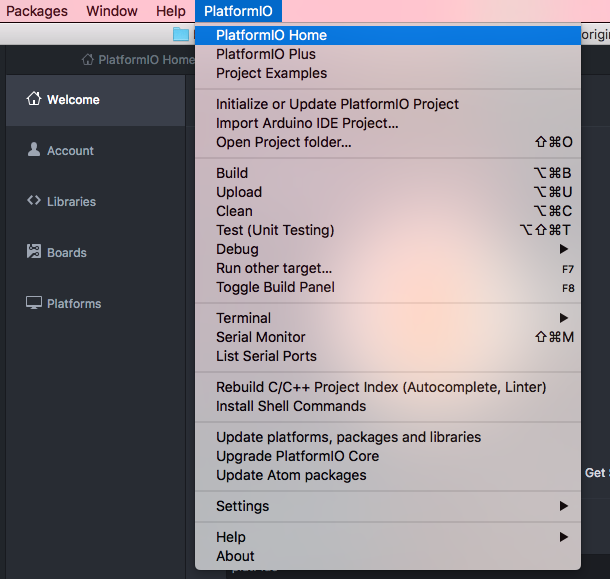
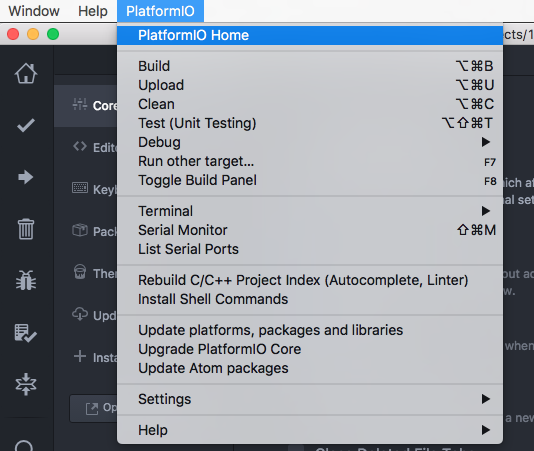
Update docs for PIO IDE for Atom

diff --git a/ide/atom.rst b/ide/atom.rst
@@ -121,37 +121,16 @@ ready for using. Happy coding!
 Setting Up the Project
 ~~~~~~~~~~~~~~~~~~~~~~
 
-1. To create a new project choose
-   ``Menu: PlatformIO > Initialize new Project or update existing`` or press
-   the corresponding icon in the PlatformIO toolbar as shown in the image below:
+1. Click on "PlatformIO Home" button on the :ref:`atom_ide_platformio_toolbar`
 
-.. image:: ../_static/ide/atom/ide-atom-quick-start-1.png
-    :target: ../_images/ide-atom-quick-start-1.png
+.. image:: ../_static/ide/atom/ide-atom-welcome.png
 
-2. In the "New Project Menu" choose desired boards (more than one board is
-   allowed) and select a project directory. Then press "Initialize" button:
+2. Click on "New Project", select a board and create new PlatformIO Project
 
-.. image:: ../_static/ide/atom/ide-atom-quick-start-2.png
-    :target: ../_images/ide-atom-quick-start-2.png
+.. image:: ../_static/ide/atom/ide-atom-new-project.png
 
-3. If everything is fine, you should see the success message and project tree
-   in the left panel:
-
-.. image:: ../_static/ide/atom/ide-atom-quick-start-3.png
-    :target: ../_images/ide-atom-quick-start-3.png
-
-4. Now, let's create the first project source file: right-click on the folder
-   ``src`` and choose ``New File``:
-
-.. image:: ../_static/ide/atom/ide-atom-quick-start-4.png
-    :target: ../_images/ide-atom-quick-start-4.png
-
-Enter filename ``main.cpp``:
-
-.. image:: ../_static/ide/atom/ide-atom-quick-start-5.png
-    :target: ../_images/ide-atom-quick-start-5.png
-
-Copy the next source code to the just created file ``main.cpp``
+3. Open ``main.cpp`` file form ``src`` folder and replace its contents with
+   the next:
 
 .. warning::
 
@@ -192,6 +171,9 @@ Copy the next source code to the just created file ``main.cpp``
       delay(1000);
     }
 
+.. image:: ../_static/ide/atom/ide-atom-blink-project.png
+
+
 Process Project
 ~~~~~~~~~~~~~~~
 
@@ -202,14 +184,12 @@ upload firmware, run other targets) using:
     - :ref:`atom_ide_platformio_menu`
     - :ref:`ide_atom_building_targets` and hotkeys
 
-.. image:: ../_static/ide/atom/ide-atom-quick-start-6.png
-    :target: ../_images/ide-atom-quick-start-6.png
+.. image:: ../_static/ide/atom/ide-atom-process-project.png
 
 5. Run ``Build`` and you should see green "success" result in the building
    panel:
 
-.. image:: ../_static/ide/atom/ide-atom-quick-start-7.png
-    :target: ../_images/ide-atom-quick-start-7.png
+.. image:: ../_static/ide/atom/ide-atom-build-project.png
 
 To upload firmware to the board run ``Upload``.
 
@@ -253,13 +233,10 @@ And allows you to communicate with your board in an easy way:
     :target: ../_images/ide-atom-quick-start-14.png
 
 
-User Guide
-----------
-
 .. _atom_ide_platformio_menu:
 
 Menu item ``PlatformIO``
-~~~~~~~~~~~~~~~~~~~~~~~~
+------------------------
 
 `platformio-ide <https://atom.io/packages/platformio-ide>`_ package adds to Atom
 new menu item named ``Menu: PlatformIO`` (after ``Menu: Help`` item).
@@ -269,14 +246,15 @@ new menu item named ``Menu: PlatformIO`` (after ``Menu: Help`` item).
 .. _atom_ide_platformio_toolbar:
 
 PlatformIO Toolbar
-~~~~~~~~~~~~~~~~~~
+------------------
 
 PlatformIO IDE Toolbar contains quick access buttons for the popular commands.
 Each button contains hint (delay mouse on it).
 
 .. image:: ../_static/ide/atom/ide-atom-toolbar.png
 
-* PlatformIO: Home (PIO Account, Library Manager, Board Explorer, Development Platform Manager)
+* PlatformIO: Home (:ref:`pioaccount`, library and platform managers, board explorer,
+  and many more...)
 * PlatformIO: Build
 * PlatformIO: Upload
 * PlatformIO: Clean
@@ -284,10 +262,7 @@ Each button contains hint (delay mouse on it).
 * Run other target (Build environments, :ref:`unit_testing`)
 * Toggle build panel
 * ||
-* Initialize new PlatformIO Project or update existing...
-* Add/Open Project Folder...
 * Find in Project...
-* ||
 * PIO Terminal
 * Serial Monitor
 * ||
@@ -296,7 +271,7 @@ Each button contains hint (delay mouse on it).
 .. _ide_atom_building_targets:
 
 Building / Uploading / Targets
-~~~~~~~~~~~~~~~~~~~~~~~~~~~~~~
+------------------------------
 
 * ``cmd-alt-b`` / ``ctrl-alt-b`` / ``f9`` builds project without auto-uploading.
 * ``cmd-alt-u`` / ``ctrl-alt-u`` builds and uploads (if no errors).
@@ -310,7 +285,7 @@ Building / Uploading / Targets
 More options ``Menu: PlatformIO > Settings > Build``.
 
 Intelligent Code Completion
-~~~~~~~~~~~~~~~~~~~~~~~~~~~
+---------------------------
 
 PlatformIO IDE uses `clang <http://clang.llvm.org>`_ for the Intelligent Code Completion.
 To install it or check if it is already installed, please follow to step
@@ -324,7 +299,7 @@ To install it or check if it is already installed, please follow to step
 .. _ide_atom_smart_code_linter:
 
 Smart Code Linter
-~~~~~~~~~~~~~~~~~
+-----------------
 
 PlatformIO IDE uses PlatformIO's pre-built GCC toolchains for Smart Code Linter
 and rapid professional development.
@@ -338,13 +313,8 @@ automatically created and preconfigured when you initialize project using
     Rebuild C/C++ Project Index (Autocomplete, Linter)``
 
 
-.. error::
-    If you have an error like ``linter-gcc: Executable not found`` and
-    ``"***/.platformio/packages/toolchain-atmelavr/bin/avr-g++" not found``,
-    please ``Menu: PlatformIO > Initialize new PlatformIO Project or update existing...``.
-
 Install Shell Commands
-~~~~~~~~~~~~~~~~~~~~~~
+----------------------
 
 To install ``platformio`` and ``pio`` shell commands please use ``Menu:
 PlatformIO > Install Shell Commands``. It will allow you to call PlatformIO from

diff --git a/ide/vscode.rst b/ide/vscode.rst
@@ -60,7 +60,7 @@ Setting Up the Project
 
 .. image:: ../_static/ide/vscode/platformio-ide-vscode-welcome.png
 
-2. Click on "New Project", select a board and create a new PlatformIO Project
+2. Click on "New Project", select a board and create new PlatformIO Project
 
 .. image:: ../_static/ide/vscode/platformio-ide-vscode-new-project.png
 
@@ -71,9 +71,6 @@ Setting Up the Project
 
     The code below works only in pair with Arduino-based boards. Please
     follow to `PlatformIO Project Examples <https://github.com/platformio/platformio-examples>`_ repository for other pre-configured projects.
-
-
-.. image:: ../_static/ide/vscode/platformio-ide-vscode-blink-project.png
 
 .. code-block:: cpp
 
@@ -108,6 +105,8 @@ Setting Up the Project
        // wait for a second
       delay(1000);
     }
+
+.. image:: ../_static/ide/vscode/platformio-ide-vscode-blink-project.png
 
 4. Build your project with ``ctrl+alt+b`` hotkey (see all Key Bindings in
    "User Guide" section below) or using "Build" button on the :ref:`ide_vscode_toolbar`

diff --git a/frameworks/arduino.rst b/frameworks/arduino.rst
@@ -2080,7 +2080,7 @@ LowPowerLab
       - RAM
 
     * - ``mightyhat``
-      - `LowPowerLab Moteino <https://lowpowerlab.com/shop/product/130>`_
+      - `LowPowerLab MightyHat <https://lowpowerlab.com/shop/product/130>`_
       - :ref:`Atmel AVR <platform_atmelavr>`
       - 
       - ATMEGA328P

diff --git a/platforms/atmelavr.rst b/platforms/atmelavr.rst
@@ -1063,7 +1063,7 @@ LowPowerLab
       - RAM
 
     * - ``mightyhat``
-      - `LowPowerLab Moteino <https://lowpowerlab.com/shop/product/130>`_
+      - `LowPowerLab MightyHat <https://lowpowerlab.com/shop/product/130>`_
       - :ref:`Atmel AVR <platform_atmelavr>`
       - 
       - ATMEGA328P

diff --git a/platforms/embedded_boards.rst b/platforms/embedded_boards.rst
@@ -2494,7 +2494,7 @@ LowPowerLab
       - RAM
 
     * - ``mightyhat``
-      - `LowPowerLab Moteino <https://lowpowerlab.com/shop/product/130>`_
+      - `LowPowerLab MightyHat <https://lowpowerlab.com/shop/product/130>`_
       - :ref:`Atmel AVR <platform_atmelavr>`
       - 
       - ATMEGA328P
